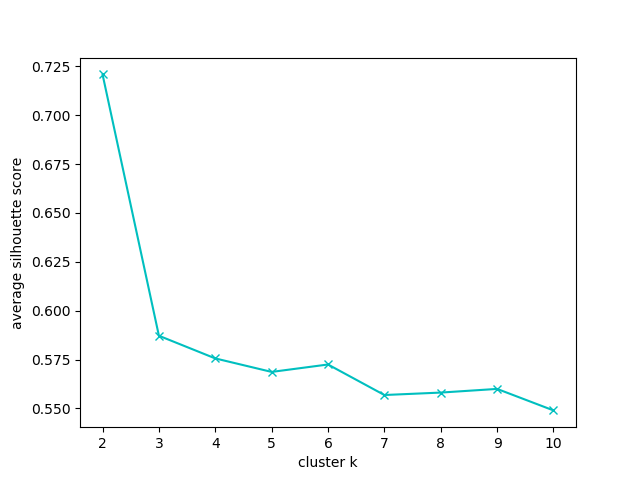
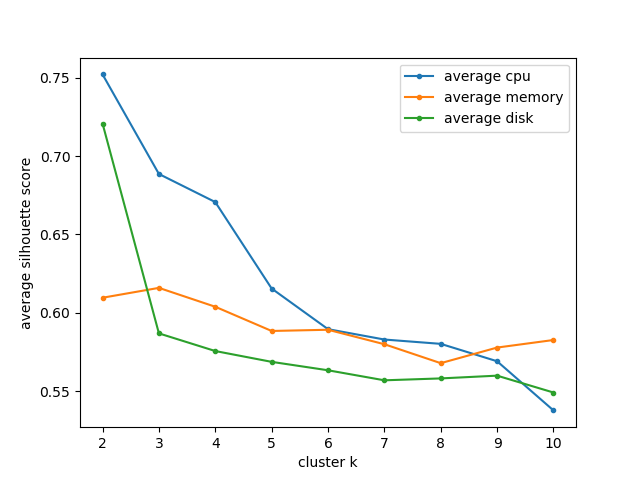
使用轮廓系数对聚类评估

diff --git a/mysql_analysis/lkxs.py b/mysql_analysis/lkxs.py
@@ -1,0 +1,135 @@
+import MySQLdb as mdb
+from sklearn.cluster import KMeans
+import numpy as np
+import matplotlib.pyplot as plt
+from sklearn.metrics import silhouette_samples, silhouette_score
+
+
+# 自定义归一化方法
+def MaxMinNormalization(list):
+    Max = np.max(list)
+    Min = np.min(list)
+    res = []
+    for x in list:
+        x = (x - Min) / (Max - Min)
+        res.append(x)
+    return res
+
+
+def graph():
+    # 连接数据库
+    conn = mdb.connect(host='127.0.0.1', port=3306, user='root', passwd='root', db='alibaba_trace', charset='utf8')
+
+    # 如果使用事务引擎，可以设置自动提交事务，或者在每次操作完成后手动提交事务conn.commit()
+    conn.autocommit(1)  # conn.autocommit(True)
+
+    # 使用cursor()方法获取操作游标
+    cursor = conn.cursor()
+    # 因该模块底层其实是调用CAPI的，所以，需要先得到当前指向数据库的指针。
+
+    try:
+        # 查询数据条目
+        # cursor.execute(
+        #     "SELECT max(modify_timestamp) - min(create_timestamp) FROM batch_task WHERE status = 'Terminated'  group by job_id ASC ")
+        # results = cursor.fetchall()
+        # result_list = list(results)
+        # job_duration = [x[0] for x in result_list]
+        # cursor.execute("select avg_cpu, avg_mem from batch_job_category where avg_cpu > 0 and avg_mem > 0")
+        # results = cursor.fetchall()
+        # result_list = list(results)
+        # avg_cpu = [x[0] for x in result_list]
+        # avg_mem = [x[1] for x in result_list]
+
+        cursor.execute(
+            "select instance_id, avg(cpu_util), avg(mem_util), avg(disk_util) from container_usage where mem_util > 0 and cpu_util > 0 and disk_util > 0 group by instance_id"
+        )
+        results = cursor.fetchall()
+        result_list = list(results)
+        ts = [x[0] for x in result_list]
+        avg_cpu = [x[1] for x in result_list]
+        avg_mem = [x[2] for x in result_list]
+        avg_disk = [x[3] for x in result_list]
+
+        # 如果没有设置自动提交事务，则这里需要手动提交一次
+        conn.commit()
+
+        # 将数据带入到聚类模型中
+        loan = []
+        loan.append(avg_cpu)
+        loan = np.asarray(loan)
+        loan = loan.transpose()
+
+        n_cluster = range(2,11)
+        sample_silhouette_job_duration_list = []
+        for cluster in n_cluster:
+            clf = KMeans(n_clusters=cluster)
+            cluster_labels = clf.fit_predict(loan)
+            silhouette_avg = silhouette_score(loan, cluster_labels)
+            print("For n_clusters =", cluster,
+                  "The average silhouette_score is :", silhouette_avg)
+            sample_silhouette_values = silhouette_samples(loan, cluster_labels)
+            print(sample_silhouette_values)
+            sample_silhouette_job_duration_list.append(silhouette_avg)
+
+        loan = []
+        loan.append(avg_mem)
+        loan = np.asarray(loan)
+        loan = loan.transpose()
+        sample_silhouette_avg_cpu_list = []
+        for cluster in n_cluster:
+            clf = KMeans(n_clusters=cluster)
+            cluster_labels = clf.fit_predict(loan)
+            silhouette_avg = silhouette_score(loan, cluster_labels)
+            print("For n_clusters =", cluster,
+                  "The average silhouette_score is :", silhouette_avg)
+            sample_silhouette_values = silhouette_samples(loan, cluster_labels)
+            print(sample_silhouette_values)
+            sample_silhouette_avg_cpu_list.append(silhouette_avg)
+
+        loan = []
+        loan.append(avg_disk)
+        loan = np.asarray(loan)
+        loan = loan.transpose()
+        sample_silhouette_avg_mem_list = []
+        for cluster in n_cluster:
+            clf = KMeans(n_clusters=cluster)
+            cluster_labels = clf.fit_predict(loan)
+            silhouette_avg = silhouette_score(loan, cluster_labels)
+            print("For n_clusters =", cluster,
+                  "The average silhouette_score is :", silhouette_avg)
+            sample_silhouette_values = silhouette_samples(loan, cluster_labels)
+            print(sample_silhouette_values)
+            sample_silhouette_avg_mem_list.append(silhouette_avg)
+
+        fig = plt.figure()
+        ax1 = fig.add_subplot(111)
+        # ax1.plot(range(2,11), sample_silhouette_job_duration_list, '.-', label='job duration')
+        # ax1.plot(range(2,11), sample_silhouette_avg_cpu_list, '.-', label='average cpu')
+        # ax1.plot(range(2,11), sample_silhouette_avg_mem_list, '.-', label='average memory')
+        # ax1.set_xlabel("cluster k")
+        # ax1.set_ylabel("average silhouette score")
+        # ax1.legend(loc='best')
+        # plt.savefig("../imgs_mysql/batch_job_category_average_silhouette")
+
+        ax1.plot(range(2,11), sample_silhouette_job_duration_list, '.-', label='average cpu')
+        ax1.plot(range(2,11), sample_silhouette_avg_cpu_list, '.-', label='average memory')
+        ax1.plot(range(2,11), sample_silhouette_avg_mem_list, '.-', label='average disk')
+        ax1.set_xlabel("cluster k")
+        ax1.set_ylabel("average silhouette score")
+        ax1.legend(loc='best')
+        plt.savefig("../imgs_mysql/container_instance_category_average_silhouette")
+        plt.show()
+
+    except:
+        import traceback
+        traceback.print_exc()
+        # 发生错误时回滚
+        conn.rollback()
+    finally:
+        # 关闭游标连接
+        cursor.close()
+        # 关闭数据库连接
+        conn.close()
+
+if __name__ == '__main__':
+    graph()

diff --git a/mysql_analysis/online_service/container_instance_cpi_mpki_time.py b/mysql_analysis/online_service/container_instance_cpi_mpki_time.py
@@ -1,6 +1,7 @@
 import matplotlib.pyplot as plt
 import MySQLdb as mdb
 
+
 def graph():
     # 连接数据库
     conn = mdb.connect(host='127.0.0.1', port=3306, user='root', passwd='root', db='alibaba_trace', charset='utf8')
@@ -13,7 +14,8 @@ def graph():
     # 因该模块底层其实是调用CAPI的，所以，需要先得到当前指向数据库的指针。
     res = []
     try:
-        cursor.execute("select ts/3600-11 as time_stamp, avg(avg_cpi), avg(avg_mpki) from container_usage group by ts having time_stamp <= 4")
+        cursor.execute(
+            "select ts/3600-11 as time_stamp, avg(avg_cpi), avg(avg_mpki) from container_usage group by ts having time_stamp <= 4")
         records = cursor.fetchall()
         list_records = list(records)
         res[:] = map(list, list_records)
@@ -22,7 +24,8 @@ def graph():
         print(avg_cpi_4)
         avg_mpki_4 = [x[2] for x in res]
 
-        cursor.execute("select ts/3600-11 as time_stamp, avg(avg_cpi), avg(avg_mpki) from container_usage group by ts having time_stamp > 4 and time_stamp <= 8")
+        cursor.execute(
+            "select ts/3600-11 as time_stamp, avg(avg_cpi), avg(avg_mpki) from container_usage group by ts having time_stamp > 4 and time_stamp <= 8")
         records = cursor.fetchall()
         list_records = list(records)
         res[:] = map(list, list_records)
@@ -31,7 +34,8 @@ def graph():
         print(avg_cpi_4_8)
         avg_mpki_4_8 = [x[2] for x in res]
 
-        cursor.execute("select ts/3600-11 as time_stamp, avg(avg_cpi), avg(avg_mpki) from container_usage group by ts having time_stamp > 8")
+        cursor.execute(
+            "select ts/3600-11 as time_stamp, avg(avg_cpi), avg(avg_mpki) from container_usage group by ts having time_stamp > 8")
         records = cursor.fetchall()
         list_records = list(records)
         res[:] = map(list, list_records)
@@ -51,33 +55,33 @@ def graph():
         # 关闭数据库连接
         conn.close()
 
-
-    fig = plt.figure(figsize=(9,4))
+    fig = plt.figure(figsize=(9, 4))
     ax1 = fig.add_subplot(1, 3, 1)
-    ax2 = fig.add_subplot(1, 3, 2, sharey=ax1)
-    ax3 = fig.add_subplot(1, 3, 3, sharey=ax1)
-    ax1.set_ylim(0, 20)
-    plt.yticks([y for y in range(20 + 1) if y % 5 == 0])
+    ax2 = fig.add_subplot(1, 3, 2, sharex=ax1, sharey=ax1)
+    ax3 = fig.add_subplot(1, 3, 3, sharex=ax1, sharey=ax1)
+    # ax1.set_ylim(0, 20)
+    # ax1.set_xlim(0, 0.15)
+    # plt.yticks([y for y in range(20 + 1) if y % 5 == 0])
     # 直方图
-    ax1.hist(avg_cpi_4, normed=False, alpha=1.0, bins=100)
-    ax2.hist(avg_cpi_4_8, normed=False, alpha=1.0, bins=100)
-    ax3.hist(avg_cpi_8_12, normed=False, alpha=1.0, bins=100)
-    ax1.set_xlabel('cpi ts less 4(h)')
-    ax2.set_xlabel('cpi ts more 4(h) less 8(h)')
-    ax3.set_xlabel('cpi ts more 8(h) less 12(h)')
-    ax1.set_ylabel('portion of cpi')
-
-    plt.savefig("../../imgs_mysql/container_instance_cpi_time")
-
-    # ax1.hist(avg_mpki_4, normed=False, alpha=1.0, bins=100)
-    # ax2.hist(avg_mpki_4_8, normed=False, alpha=1.0, bins=100)
-    # ax3.hist(avg_mpki_8_12, normed=False, alpha=1.0, bins=100)
-    # ax1.set_xlabel('mpki ts less 4(h)')
-    # ax2.set_xlabel('mpki ts more 4(h) less 8(h)')
-    # ax3.set_xlabel('mpki ts more 8(h) less 12(h)')
-    # ax1.set_ylabel('portion of mpki')
+    # ax1.hist(avg_cpi_4, normed=False, alpha=1.0, bins=50)
+    # ax2.hist(avg_cpi_4_8, normed=False, alpha=1.0, bins=50)
+    # ax3.hist(avg_cpi_8_12, normed=False, alpha=1.0, bins=50)
+    # ax1.set_xlabel('cpi ts less 4(h)')
+    # ax2.set_xlabel('cpi ts more 4(h) less 8(h)')
+    # ax3.set_xlabel('cpi ts more 8(h) less 12(h)')
+    # ax1.set_ylabel('portion of instance')
     #
-    # plt.savefig("../../imgs_mysql/container_instance_mpki_time")
+    # plt.savefig("../../imgs_mysql/container_instance_cpi_time")
+
+    ax1.hist(avg_mpki_4, normed=False, alpha=1.0, bins=50)
+    ax2.hist(avg_mpki_4_8, normed=False, alpha=1.0, bins=50)
+    ax3.hist(avg_mpki_8_12, normed=False, alpha=1.0, bins=50)
+    ax1.set_xlabel('mpki ts less 4(h)')
+    ax2.set_xlabel('mpki ts more 4(h) less 8(h)')
+    ax3.set_xlabel('mpki ts more 8(h) less 12(h)')
+    ax1.set_ylabel('portion of instance')
+
+    plt.savefig("../../imgs_mysql/container_instance_mpki_time")
     plt.show()
 
 if __name__ == '__main__':

diff --git a/mysql_analysis/online_service/container_instance_usage.py b/mysql_analysis/online_service/container_instance_usage.py
@@ -48,36 +48,39 @@ def graph():
     avg_mpki = [x[5] for x in res]
 
     # 绘图
-    fig = plt.figure(figsize=(11, 4))
-    ax1 = fig.add_subplot(1, 3, 1)
-    ax2 = fig.add_subplot(1, 3, 2)
-    ax3 = fig.add_subplot(1, 3, 3)
-    ax1.set_xlabel('average cpu utilization(%)')
-    ax2.set_xlabel('average memory utilization(%)')
-    ax3.set_xlabel('average disk utilization(%)')
-    ax1.set_ylabel('portion of instance')
-    ax1.set_ylim(0, 1200)
-    ax2.set_ylim(0, 1200)
-    ax3.set_ylim(0, 1200)
-    # ax1.hist(avg_cpu, normed=False, alpha=1.0,  bins=len(np.unique(avg_cpu)))
-    # ax2.hist(avg_mem, normed=False, alpha=1.0,  bins=len(np.unique(avg_mem)))
-    # ax3.hist(avg_disk, normed=False, alpha=1.0, bins=len(np.unique(avg_disk)))
-    ax1.hist(avg_cpu, normed=False, alpha=1.0,  bins=100)
-    ax2.hist(avg_mem, normed=False, alpha=1.0,  bins=100)
-    ax3.hist(avg_disk, normed=False, alpha=1.0, bins=100)
-    # ax1 = fig.add_subplot(121)
-    # ax2 = fig.add_subplot(122)
-    # ax1.set_xlabel("average cpi")
-    # ax2.set_xlabel("average mpki")
-    # ax1.set_ylabel("portion of instance")
-    # ax2.set_ylabel("portion of instance")
+    # fig = plt.figure(figsize=(11, 4))
+    # ax1 = fig.add_subplot(1, 3, 1)
+    # ax2 = fig.add_subplot(1, 3, 2)
+    # ax3 = fig.add_subplot(1, 3, 3)
+    # ax1.set_xlabel('average cpu utilization(%)')
+    # ax2.set_xlabel('average memory utilization(%)')
+    # ax3.set_xlabel('average disk utilization(%)')
+    # ax1.set_ylabel('portion of instance')
     # ax1.set_ylim(0, 1200)
     # ax2.set_ylim(0, 1200)
-    # ax1.hist(avg_cpi, normed=False, alpha=1.0,  bins=100)
-    # ax2.hist(avg_mpki, normed=False, alpha=1.0,  bins=100)
+    # ax3.set_ylim(0, 1200)
+    # # ax1.hist(avg_cpu, normed=False, alpha=1.0,  bins=len(np.unique(avg_cpu)))
+    # # ax2.hist(avg_mem, normed=False, alpha=1.0,  bins=len(np.unique(avg_mem)))
+    # # ax3.hist(avg_disk, normed=False, alpha=1.0, bins=len(np.unique(avg_disk)))
+    # ax1.hist(avg_cpu, normed=False, alpha=1.0,  bins=100)
+    # ax2.hist(avg_mem, normed=False, alpha=1.0,  bins=100)
+    # ax3.hist(avg_disk, normed=False, alpha=1.0, bins=100)
+    fig = plt.figure(figsize=(7,4))
+    ax1 = fig.add_subplot(121)
+    ax2 = fig.add_subplot(122)
+    ax1.set_xlabel("average cpi")
+    ax2.set_xlabel("average mpki")
+    ax1.set_ylabel("portion of instance")
+    ax1.set_xlim(0,0.8)
+    ax2.set_xlim(0,0.8)
+    # ax2.set_ylabel("portion of instance")
+    ax1.set_ylim(0, 1200)
+    ax2.set_ylim(0, 1200)
+    ax1.hist(avg_cpi, normed=False, alpha=1.0,  bins=100)
+    ax2.hist(avg_mpki, normed=False, alpha=1.0,  bins=100)
 
-    plt.savefig('../imgs_mysql/container_instance_usage.png')
-    # plt.savefig('../imgs_mysql/container_instance_cpi_mpki_usage.png')
+    # plt.savefig('../imgs_mysql/container_instance_usage.png')
+    plt.savefig('../../imgs_mysql/container_instance_cpi_mpki_usage.png')
     plt.show()
 
 if __name__ == '__main__':

diff --git a/mysql_analysis/test.py b/mysql_analysis/test.py
@@ -1,0 +1,57 @@
+import MySQLdb as mdb
+
+def graph():
+    # 连接数据库
+    conn = mdb.connect(host='127.0.0.1', port=3306, user='root', passwd='root', db='alibaba_trace', charset='utf8')
+
+    # 如果使用事务引擎，可以设置自动提交事务，或者在每次操作完成后手动提交事务conn.commit()
+    conn.autocommit(1)  # conn.autocommit(True)
+
+    # 使用cursor()方法获取操作游标
+    cursor = conn.cursor()
+    # 因该模块底层其实是调用CAPI的，所以，需要先得到当前指向数据库的指针。
+
+    try:
+        # 查询数据条目
+        # cursor.execute(
+        #     "update batch_instance set category = 'mss' where job_id in (select DISTINCT job_id from batch_job_category where category_1 = 'mss')")
+
+
+        # cursor.execute("select DISTINCT job_id from batch_job_category where category_1 = 'mss'")
+        # result = cursor.fetchall()
+        # list_result = list(result)
+        # for i in list_result:
+        #     print(i)
+        #     cursor.execute("update batch_instance set category = 'mss' where job_id =(%d)" %(i))
+
+        # cursor.execute("select DISTINCT machineID from batch_instance where machineID > 0")
+        # result = cursor.fetchall()
+        # list_result = list(result)
+        # for i in list_result:
+        #     print(i)
+        #     cursor.execute("select DISTINCT job_id from batch_instance where job_id > 0 and machineID = (%d)" % (i))
+        #     result = cursor.fetchall()
+        #     list_job_id = list(result)
+        #     for j in list_job_id:
+        #         print(j)
+        #         cursor.execute("update batch_instance a, batch_job_category b set a.category = b.category_1 where a.job_id = b.job_id ")
+
+        # cursor.execute("update batch_instance set category = 'mms' where job_id = 562")
+        cursor.execute("update batch_instance a, batch_job_category b set a.category = b.category_1 where a.job_id = b.job_id")
+
+        # 如果没有设置自动提交事务，则这里需要手动提交一次
+        conn.commit()
+
+    except:
+        import traceback
+        traceback.print_exc()
+        # 发生错误时回滚
+        conn.rollback()
+    finally:
+        # 关闭游标连接
+        cursor.close()
+        # 关闭数据库连接
+        conn.close()
+
+if __name__ == '__main__':
+    graph()
